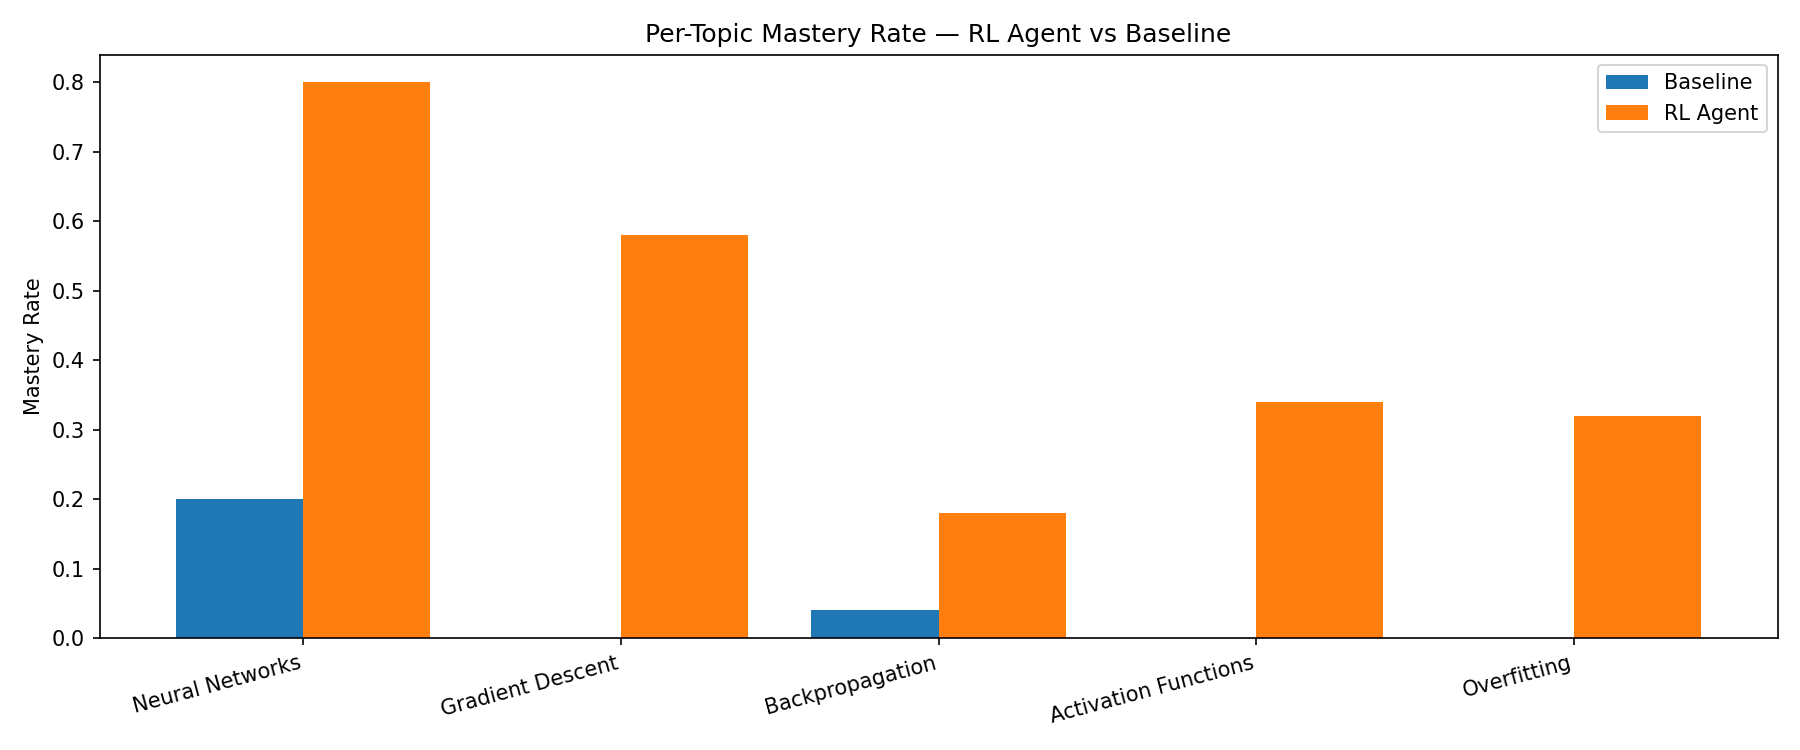
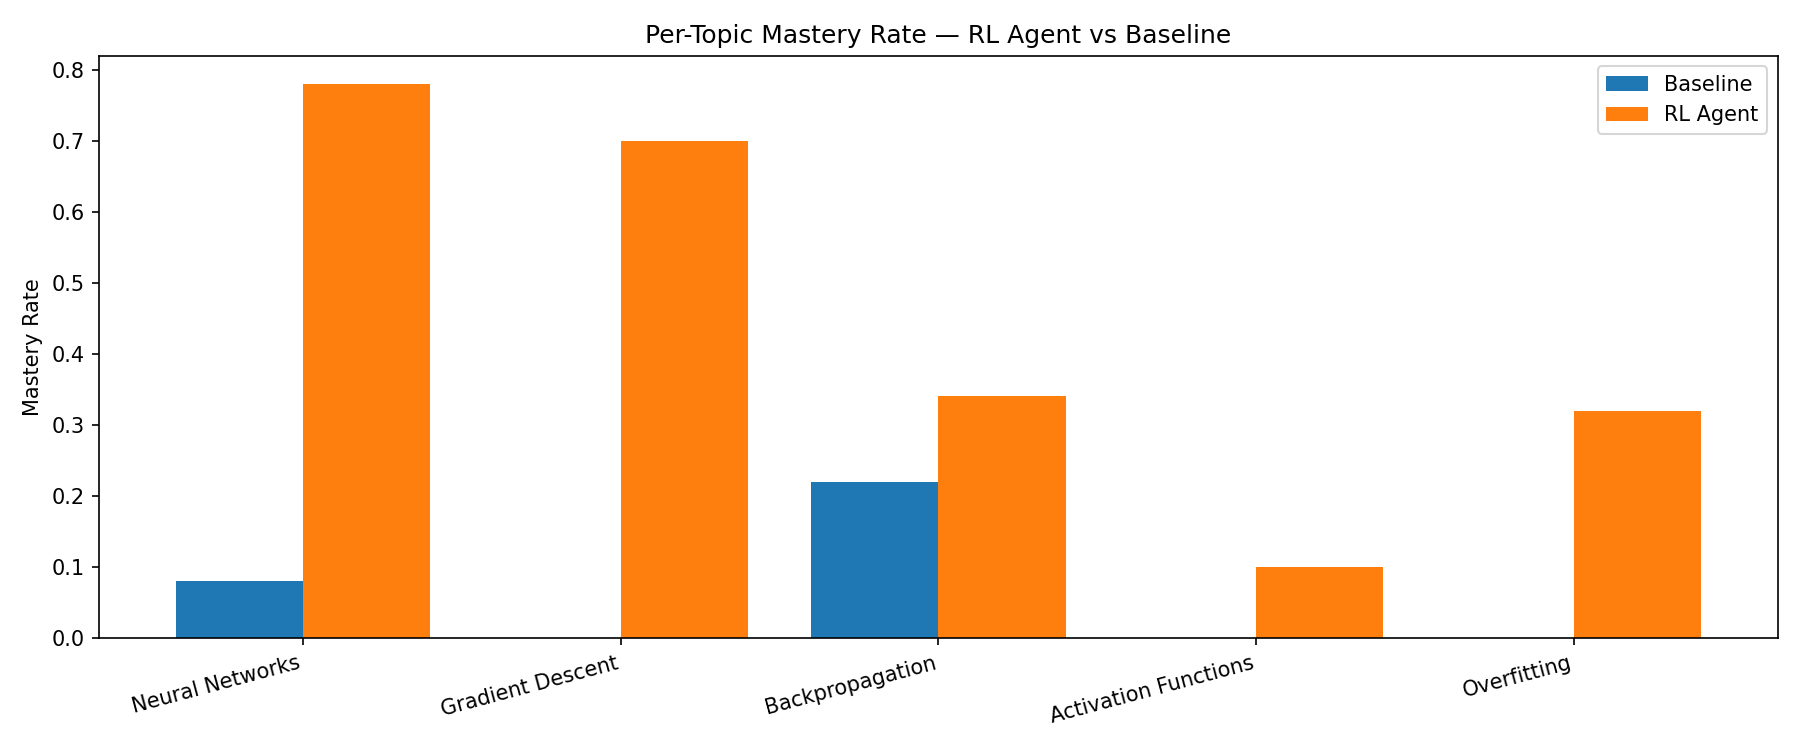
Implemented PPO

diff --git a/PPO_Agent.py b/PPO_Agent.py
@@ -1,0 +1,191 @@
+import torch
+import torch.nn as nn
+import torch.nn.functional as F
+import numpy as np
+from collections import defaultdict, deque
+import matplotlib.pyplot as plt
+
+from knowledge_state import KnowledgeState, difficulty_level, question_types
+from MDP import MDP
+from Simulator import Simulator
+from actor_critic_network import ActorCriticNetwork
+
+class PPOAgent:
+    
+    def __init__(self, topics_difficulty, prerequisites, w1, w2, w3, n_episodes= 3000, n_questions= 100, lr= 3e-4, gamma= 0.99,
+        lam= 0.95,       
+        clip_eps= 0.2,       
+        ppo_epochs= 4,          
+        mini_batch= 64,
+        entropy_coef = 0.01,
+        value_coef = 0.5,
+    ):
+        self.gamma       = gamma
+        self.lam         = lam
+        self.clip_eps    = clip_eps
+        self.ppo_epochs  = ppo_epochs
+        self.mini_batch  = mini_batch
+        self.entropy_coef = entropy_coef
+        self.value_coef   = value_coef
+        
+        self.mdp = MDP(list(topics_difficulty.keys()), difficulty_types = ['basic', 'intermediate', 'advanced'], q_types = ['factual', 'inferential', 'evaluative'], w1 = w1, w2 = w2, w3 = w3)
+        self.ac_network  = ActorCriticNetwork(num_topics = len(topics_difficulty), num_actions = len(topics_difficulty) * 3 * 3)
+        self.simulator = Simulator(topic_difficulty = topics_difficulty)
+        self.ks = KnowledgeState(topics_difficulty = topics_difficulty, prerequisites = prerequisites, window_size = 10)
+        self.optimizer = torch.optim.AdamW( self.ac_network.parameters(), lr = 1e-4)
+        self.pretrain(n_episodes =n_episodes, n_questions = n_questions)   
+
+    def _build_action_mask(self):
+        mask = torch.full((self.mdp.n_actions,), float('-inf'))
+        for idx in range(self.mdp.n_actions):
+            topic, diff, qtype = self.mdp.decode(idx)
+            if not self.ks.prerequisites_met(topic):
+                continue
+            if (diff, qtype) in self.ks.get_valid_actions(topic):
+                mask[idx] = 0.0
+        return mask
+
+    def select_action(self, state_vector, training= False):
+        state  = torch.FloatTensor(state_vector)
+        logits, value = self.ac_network(state)
+        mask   = self._build_action_mask()
+        logits = logits + mask
+        temperature = 1.0 if training else 0.7
+        probs  = F.softmax(logits / temperature, dim=-1)
+        dist   = torch.distributions.Categorical(probs)
+        action = dist.sample()
+        return action.item(), dist.log_prob(action), dist.entropy(), value
+
+    def _compute_gae(self, rewards, values, dones):    
+        advantages = []
+        gae        = 0.0
+        next_value = 0.0 
+
+        for t in reversed(range(len(rewards))):
+            delta = rewards[t] + self.gamma * next_value * (1 - dones[t]) - values[t]
+            gae   = delta + self.gamma * self.lam * (1 - dones[t]) * gae
+            advantages.insert(0, gae)
+            next_value = values[t]
+
+        advantages = torch.FloatTensor(advantages)  
+        returns    = advantages + torch.FloatTensor(values)   #advantage= returns-values
+        return advantages, returns
+
+    def run_episode(self, n_questions= 25):
+
+        self.simulator.reset_mastery_scores()
+        for topic in self.ks.topics:
+            self.ks.topic_score[topic] = 0.0
+            self.ks.attempts[topic] = 0
+            self.ks.recent_scores[topic].clear()
+            self.ks.prev_qtype[topic] = (None, None)
+            self.ks.combo_scores[topic] = defaultdict(list)
+            self.ks.current_level[topic] = { 'diff_idx' : 0, 'qtype_idx' : 0, 'earned_diff_idx' : 0, 'earned_qtype_idx': 0}
+        self.ks.prev_topic = None       
+
+        buf = defaultdict(list)
+
+        for _ in range(n_questions):
+            state_vector = self.ks.get_state_vector()
+            action_idx, log_prob, entropy, value = self.select_action(state_vector, training=True)
+            topic, difficulty, question_type = self.mdp.decode(action_idx)
+            old_earned_diff  = self.ks.current_level[topic]['earned_diff_idx']
+            old_earned_qtype = self.ks.current_level[topic]['earned_qtype_idx']
+            prev_score       = self.ks.topic_score[topic]
+
+            score = self.simulator.get_score(topic, difficulty, question_type)
+            self.ks.update(topic, score, difficulty, question_type)
+
+            reward = self.mdp.compute_reward(self.ks, topic, score, prev_score, old_earned_diff, old_earned_qtype)
+
+            buf['states'].append(state_vector)
+            buf['actions'].append(action_idx)
+            buf['log_probs'].append(log_prob.item())
+            buf['rewards'].append(reward)
+            buf['values'].append(value.item())
+            buf['entropies'].append(entropy.item())
+            buf['dones'].append(0.0)   
+
+        buf['dones'][-1] = 1.0 
+        return buf
+
+    def ppo_update(self, buf):
+        states     = torch.FloatTensor(np.array(buf['states']))
+        actions    = torch.LongTensor(buf['actions'])
+        old_lp     = torch.FloatTensor(buf['log_probs'])
+
+        advantages, returns = self._compute_gae(buf['rewards'], buf['values'], buf['dones'])
+        advantages = (advantages - advantages.mean()) / (advantages.std() + 1e-8)
+
+        total_loss_val = 0.0
+        n = len(actions)
+        
+        for _ in range(self.ppo_epochs):           
+            indices = torch.randperm(n)
+            for start in range(0, n, self.mini_batch):
+                idx = indices[start: start + self.mini_batch]
+
+                s_batch   = states[idx]
+                a_batch   = actions[idx]
+                olp_batch = old_lp[idx]
+                adv_batch = advantages[idx]
+                ret_batch = returns[idx]
+
+                logits, values = self.ac_network(s_batch)
+                mask = self._build_action_mask()
+                logits = logits + mask
+                dist      = torch.distributions.Categorical(F.softmax(logits, dim=-1))
+                new_lp    = dist.log_prob(a_batch)
+                entropy   = dist.entropy().mean()
+
+                ratio        = torch.exp(new_lp - olp_batch)
+                surr1        = ratio * adv_batch
+                surr2        = torch.clamp(ratio, 1 - self.clip_eps, 1 + self.clip_eps) * adv_batch
+                policy_loss  = -torch.min(surr1, surr2).mean()
+                value_loss   = F.mse_loss(values, ret_batch)
+                loss = policy_loss + self.value_coef * value_loss - self.entropy_coef * entropy
+
+                self.optimizer.zero_grad()
+                loss.backward()
+                nn.utils.clip_grad_norm_(self.ac_network.parameters(), max_norm=0.5)
+                self.optimizer.step()
+                total_loss_val += loss.item()
+
+        return total_loss_val / (self.ppo_epochs * max(1, n // self.mini_batch))
+
+    def pretrain(self, n_episodes= 3000, n_questions= 100):
+        total_losses = []
+
+        for episode in range(n_episodes):
+            buf  = self.run_episode(n_questions)
+            loss = self.ppo_update(buf)
+            total_losses.append(loss)
+
+            if (episode + 1) % 50 == 0:
+                avg_loss   = np.mean(total_losses[-50:])
+                avg_reward = np.mean(buf['rewards'])
+                print(f"Episode {episode+1}/{n_episodes} | "
+                    f"Avg Loss: {avg_loss:.4f} | "
+                    f"Avg Reward: {avg_reward:.4f}"
+                )
+
+        window   = 50
+        smoothed = np.convolve(total_losses, np.ones(window) / window, mode='valid')
+        plt.plot(smoothed)
+        plt.title('Smoothed PPO Training Loss')
+        plt.xlabel('Episode')
+        plt.ylabel('Loss')
+        plt.show()
+
+        return total_losses
+
+   
+    def update(self, topic, score, difficulty, question_type):
+        prev_score       = self.ks.topic_score[topic]
+        old_earned_diff  = self.ks.current_level[topic]['earned_diff_idx']
+        old_earned_qtype = self.ks.current_level[topic]['earned_qtype_idx']
+        self.ks.update(topic, score, difficulty, question_type)
+        return self.mdp.compute_reward(
+            self.ks, topic, score, prev_score,
+            old_earned_diff, old_earned_qtype,
+        )

diff --git a/evaluate.py b/evaluate.py
@@ -4,7 +4,7 @@ from collections import defaultdict
 from knowledge_state import KnowledgeState, difficulty_level, question_types
 from MDP import MDP
 from Simulator import Simulator
-from Agent import AdaptiveAgent
+from PPO_Agent import PPOAgent
 
 
 class RuleBasedAgent:
@@ -79,7 +79,7 @@ def run_agent_session(agent, simulator, topics, n_questions, is_rl=True, student
     for step in range(n_questions):
         if is_rl:
             state_vector        = agent.ks.get_state_vector()
-            action_idx, _ , _     = agent.select_action(state_vector, training=False)
+            action_idx, _ , _ ,_   = agent.select_action(state_vector, training=False)
             topic, diff, qtype  = agent.mdp.decode(action_idx)
         else:
             topic, diff, qtype  = agent.select_action()
@@ -158,7 +158,7 @@ def evaluate(topics_difficulty, prerequisites, w1=0.4, w2=0.5, w3=0.1, n_student
     simulator = Simulator(topic_difficulty=topics_difficulty)
 
     print("Pretraining RL agent...")
-    rl_agent       = AdaptiveAgent(topics_difficulty, prerequisites, w1=w1, w2=w2, w3=w3)
+    rl_agent       = PPOAgent(topics_difficulty, prerequisites, w1=w1, w2=w2, w3=w3)
     baseline_agent = RuleBasedAgent(topics_difficulty, prerequisites, w1=w1, w2=w2, w3=w3)
     print("Pretraining done.\n")
 

diff --git a/actor_critic_network.py b/actor_critic_network.py
@@ -1,0 +1,26 @@
+import torch
+import torch.nn as nn
+import torch.nn.functional as F
+
+class ActorCriticNetwork(nn.Module):
+    def __init__(self, num_topics: int, num_actions: int, dropout: float = 0.2):
+        super(ActorCriticNetwork, self).__init__()
+        self.input_size = num_topics * 8
+        hidden_size1    = self.input_size * 2
+        hidden_size2    = (self.input_size + num_actions) // 2
+
+        self.fc1     = nn.Linear(self.input_size, hidden_size1)
+        self.fc2     = nn.Linear(hidden_size1, hidden_size2)
+        self.dropout = nn.Dropout(dropout)
+
+        self.actor_head  = nn.Linear(hidden_size2, num_actions)  
+        self.critic_head = nn.Linear(hidden_size2, 1)           
+
+    def forward(self, state: torch.Tensor):
+        x = F.relu(self.fc1(state))
+        x = self.dropout(x)
+        x = F.relu(self.fc2(x))
+        x = self.dropout(x)
+        logits = self.actor_head(x)
+        value  = self.critic_head(x).squeeze(-1)
+        return logits, value
